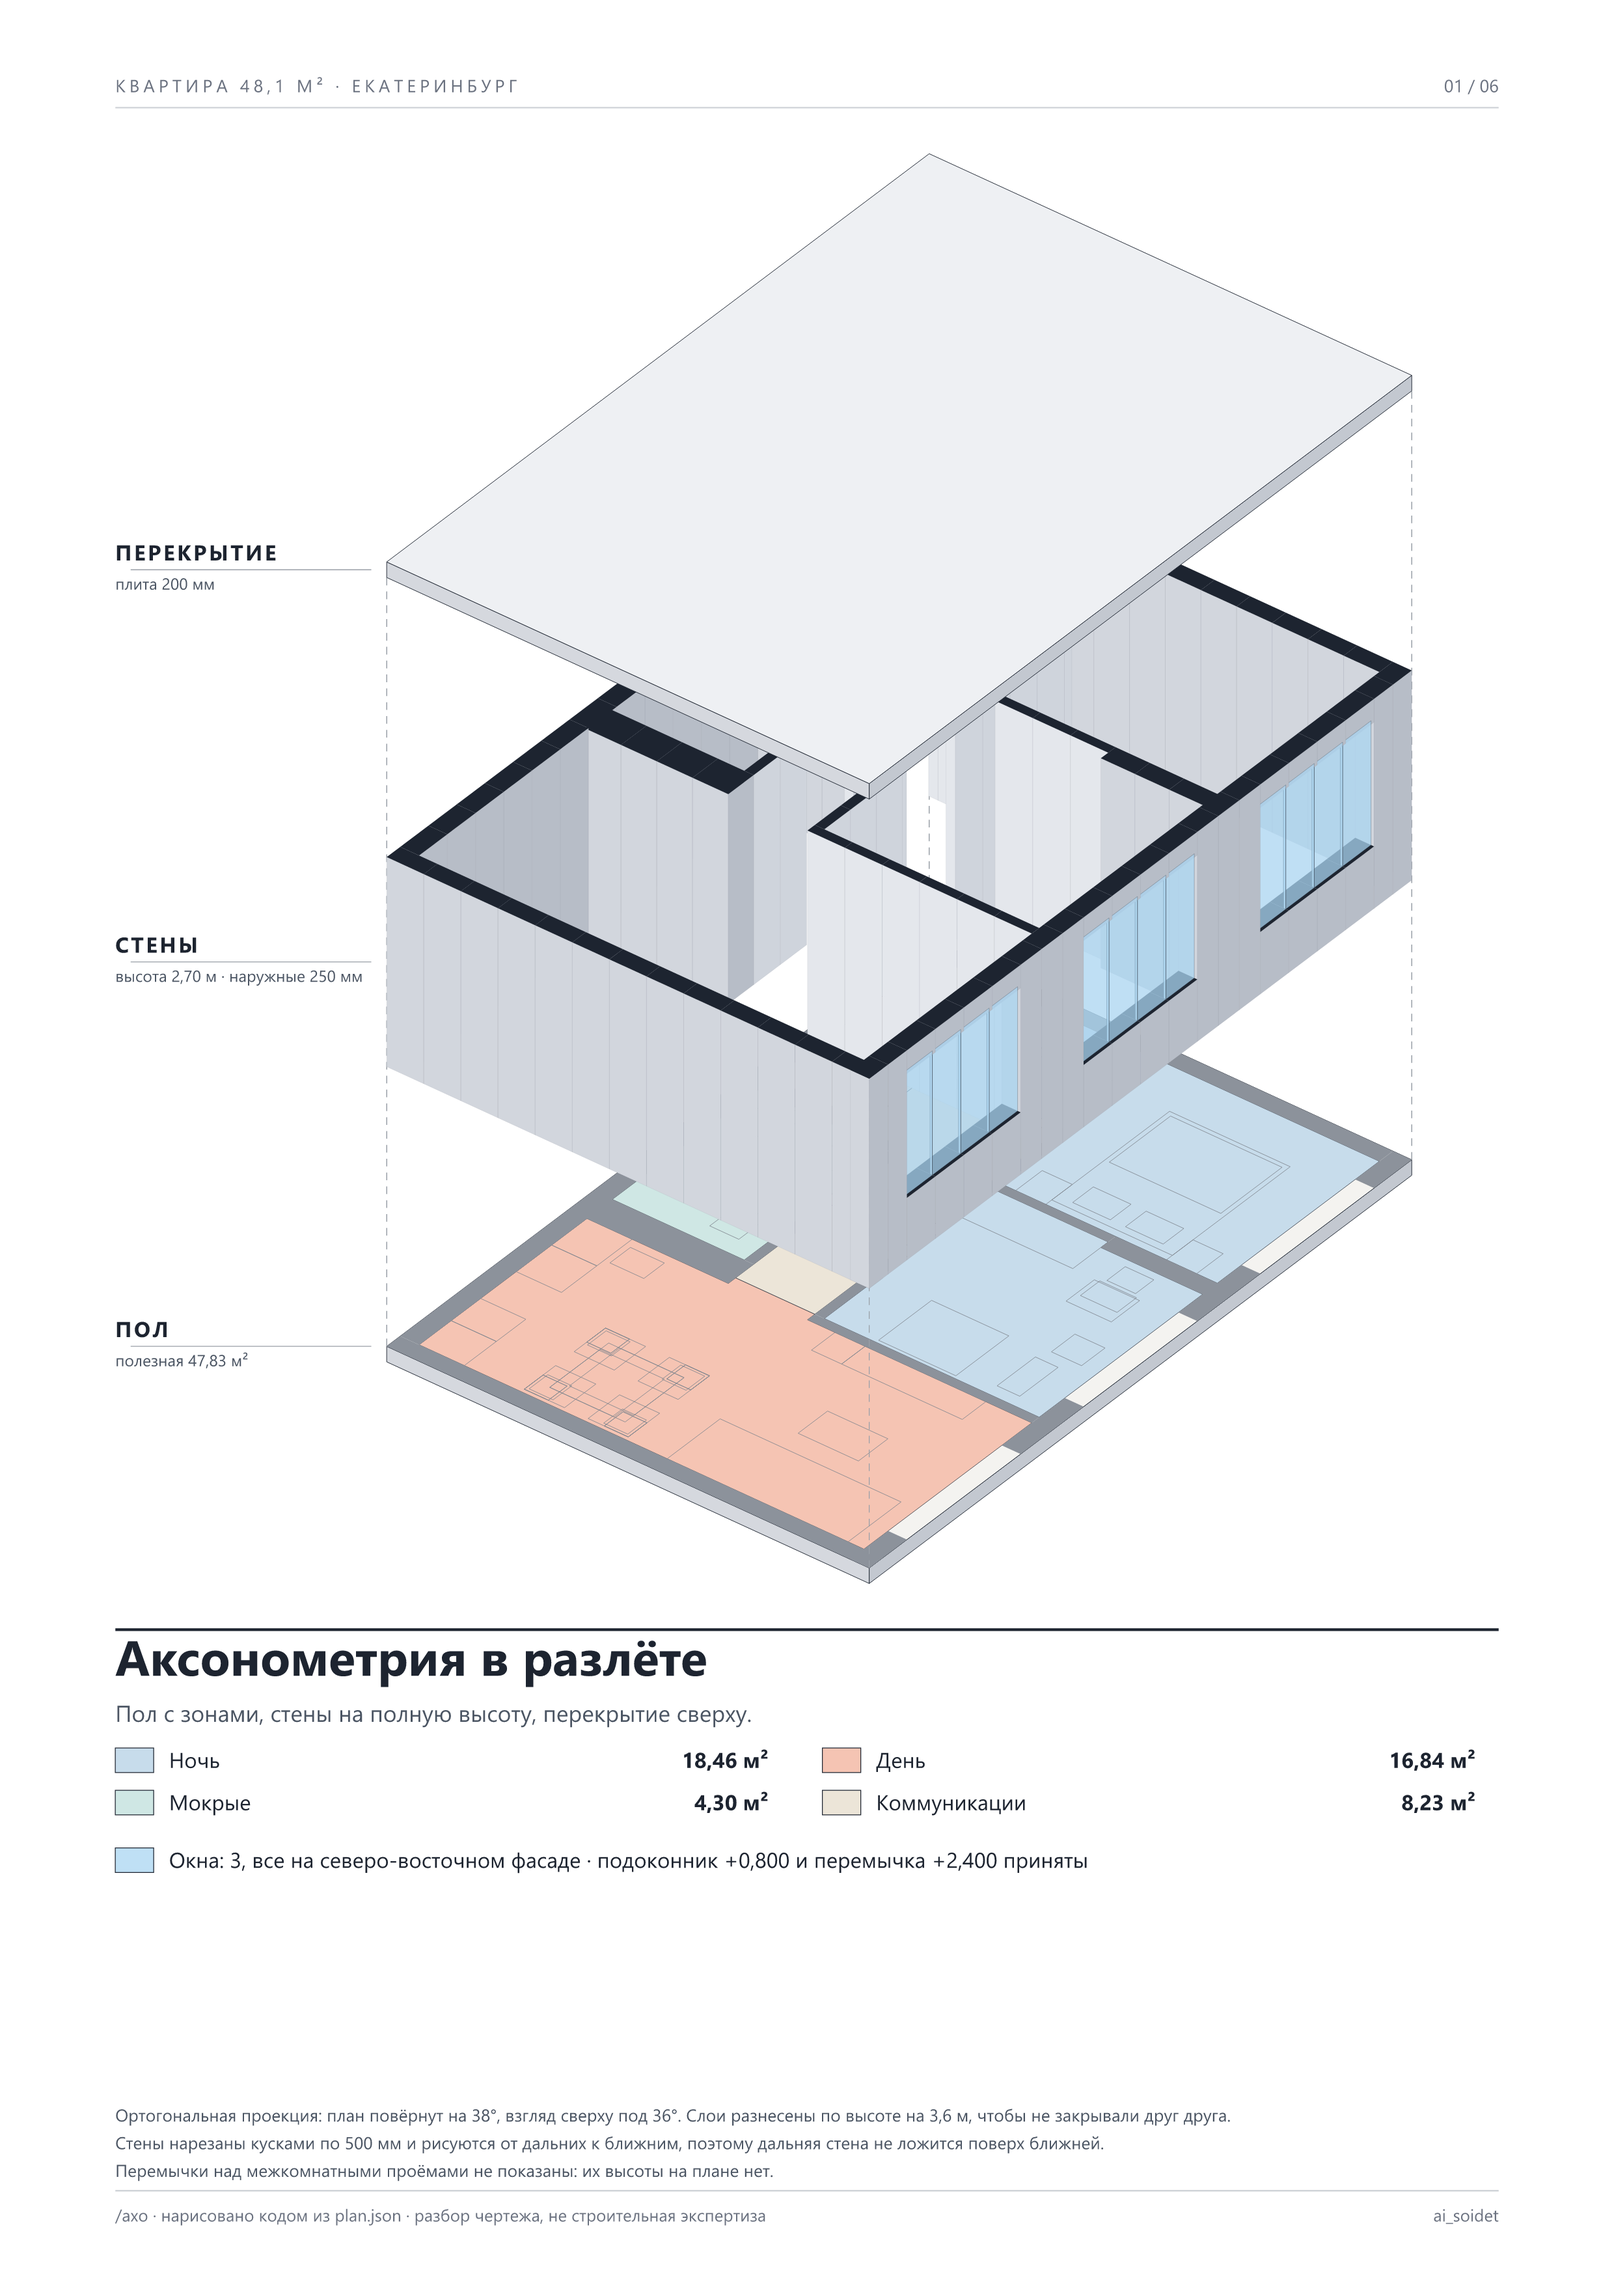
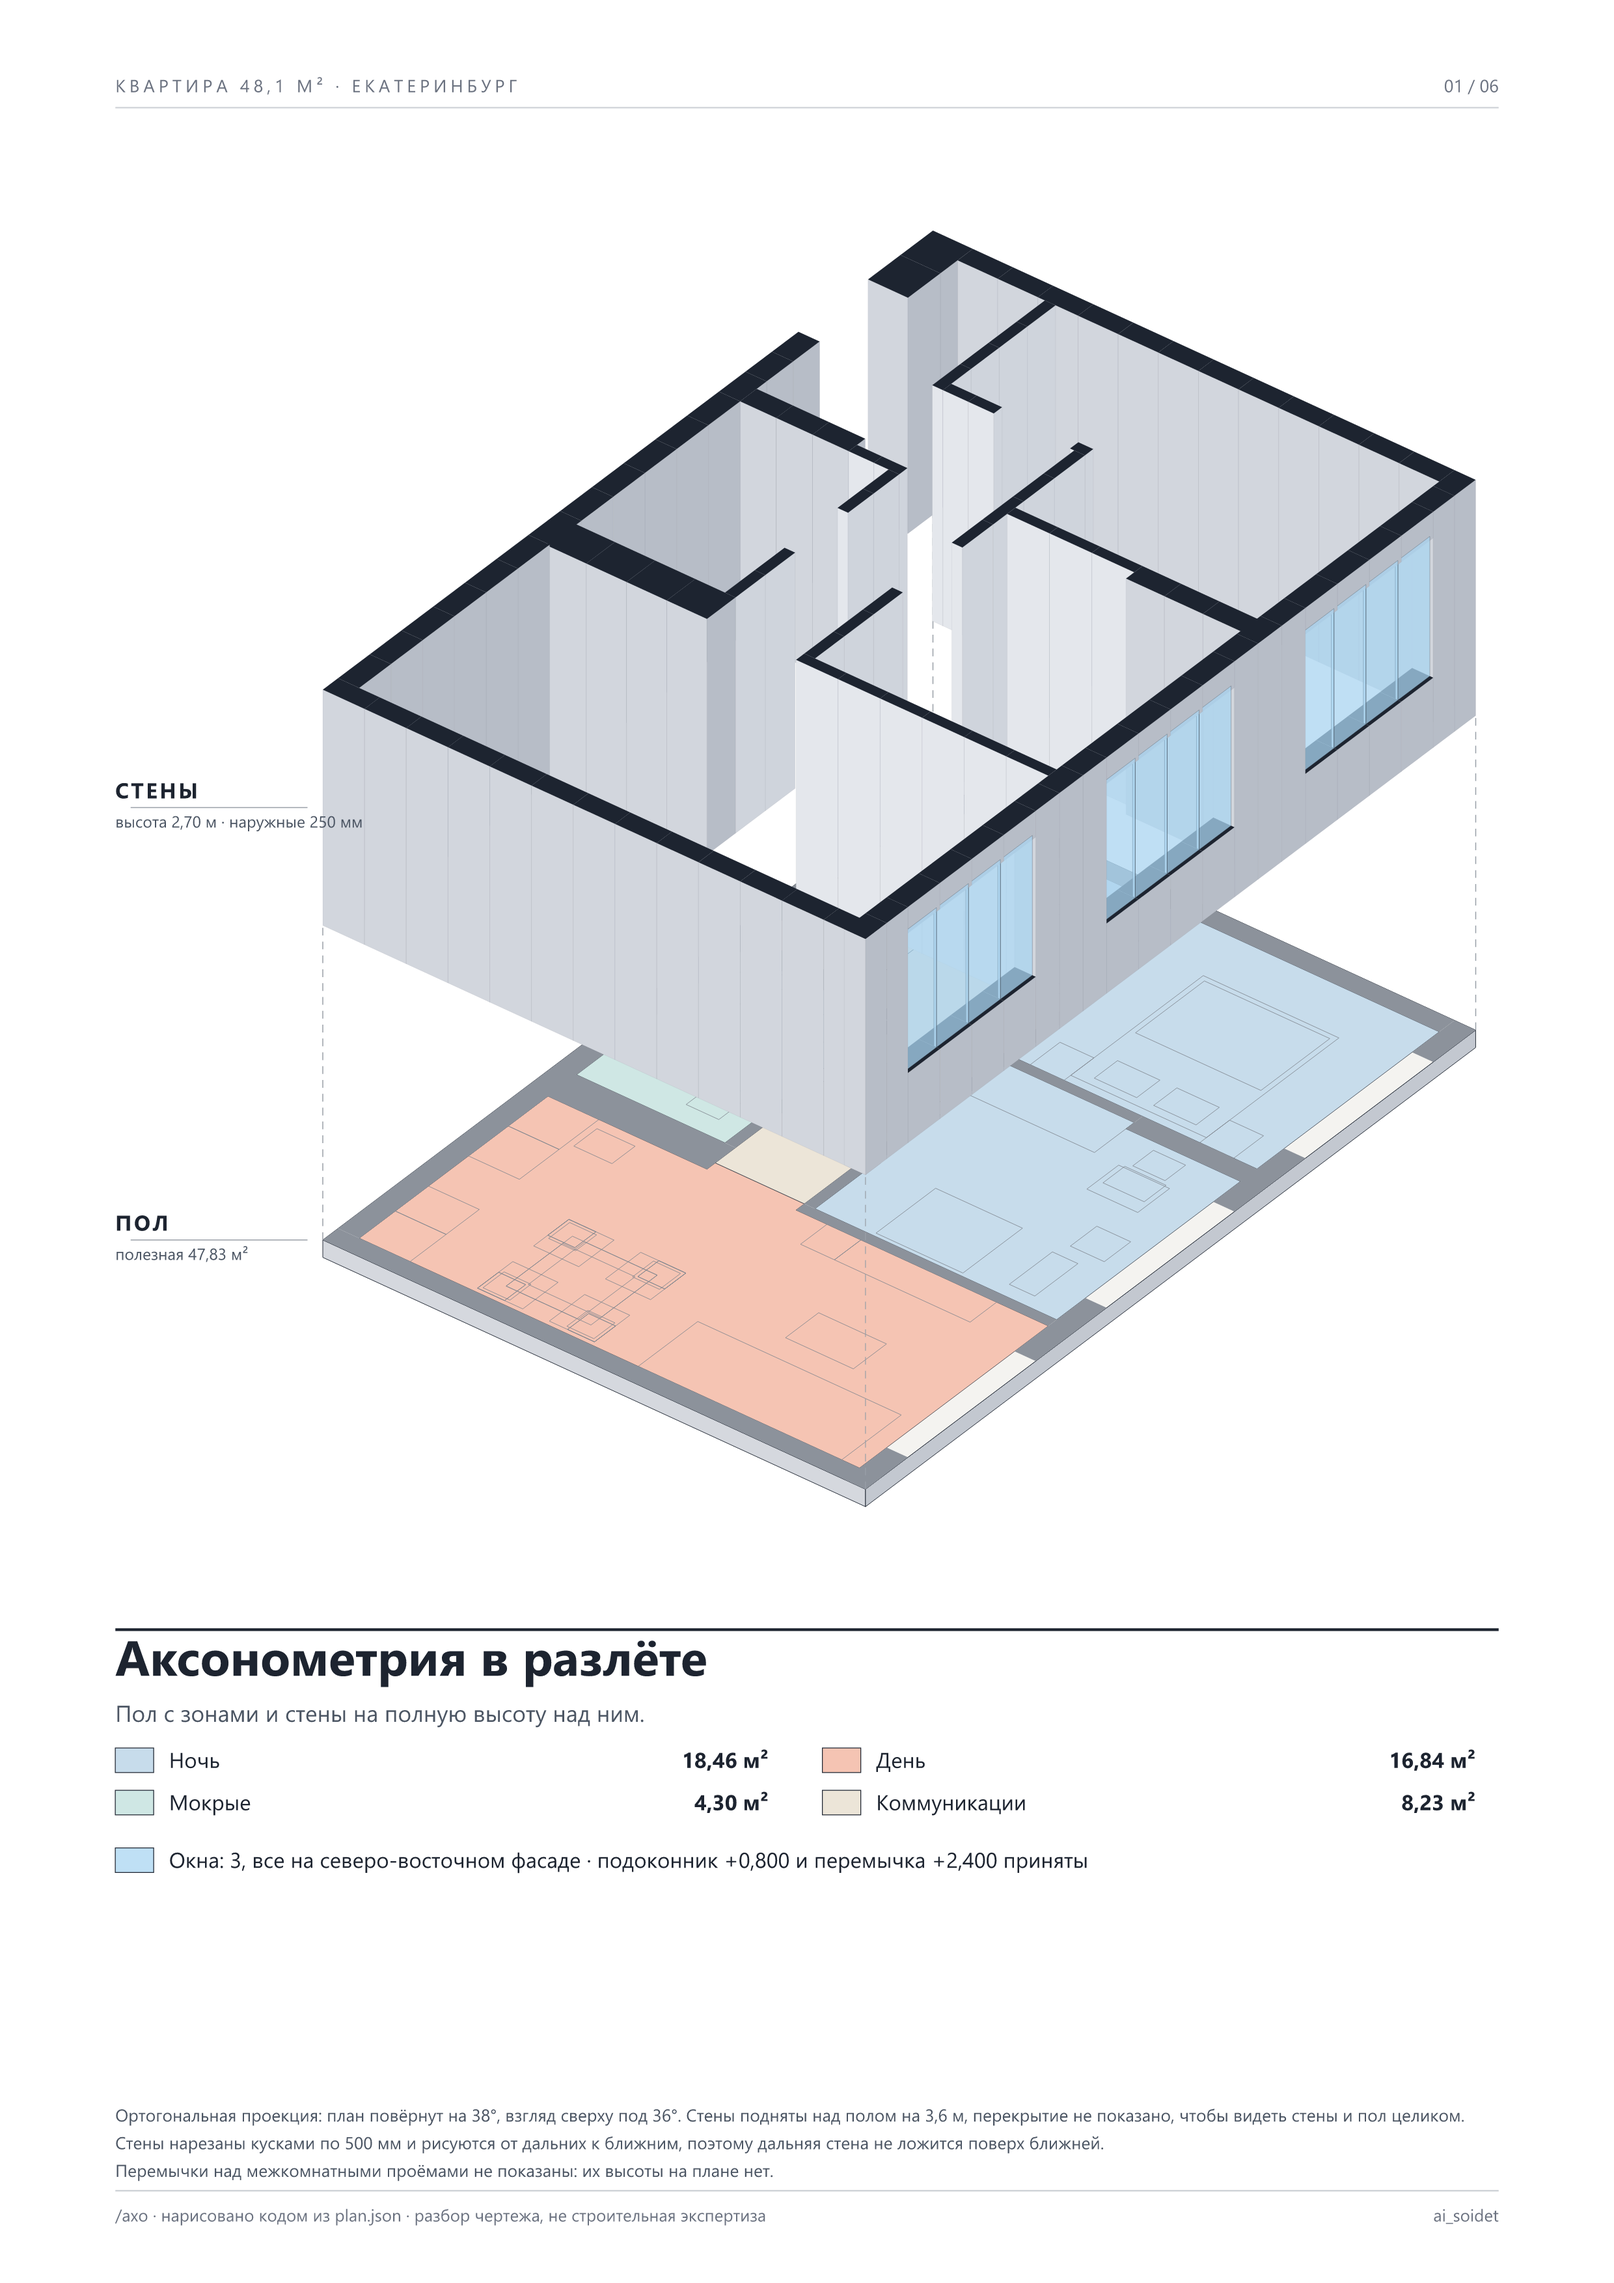
Аксонометрия без перекрытия, кадр карточек по геометрии, инструкция по установке
- /axo: перекрытие убрано, чертёж по центру листа
- карточки: кадр считается по реальной геометрии, сборка падает, если чертёж выходит за кадр
- УСТАНОВКА.md: шаги от архива до своего плана

diff --git a/.claude/commands/axo.md b/.claude/commands/axo.md
@@ -1,12 +1,12 @@
 ---
-description: Аксонометрия «в разлёте»: пол с зонами, стены приподняты, перекрытие парит сверху
+description: Аксонометрия «в разлёте»: пол с зонами и стены, приподнятые над ним
 ---
 Нарисуй аксонометрию квартиры из plan.json «в разлёте» (по CLAUDE.md). Пилоны и колонны входят в слой стен.
 - Вид ортогональный, сверху-сбоку, под 30° к горизонту, повёрнут на 30°, чтобы были видны две наружные стены с окнами.
-- Три слоя, разнесённые по высоте так, чтобы ни один не закрывал нижний:
+- Два слоя, разнесённые по высоте так, чтобы стены не закрывали пол:
   1. Плита пола: каждое помещение залито цветом своей зоны (ночь / день / мокрые / коммуникации), мебель контуром.
-  2. Стены на полную высоту: наружные и перегородки объёмами, верх чёрный, проёмы вырезаны (подоконник и перемычка остаются), стекло голубым.
-  3. Плита перекрытия с реальной толщиной.
+  2. Стены на полную высоту: наружные, перегородки и пилоны объёмами, верх чёрный, проёмы вырезаны (подоконник и перемычка остаются), стекло голубым.
+- Перекрытие не рисовать: оно закрывает стены и ничего не показывает.
 - Порядок отрисовки стен правильный: дальняя стена не рисуется поверх ближней.
-- Пунктирные направляющие по наружным углам слоёв. Слева подписи ПЕРЕКРЫТИЕ / СТЕНЫ / ПОЛ с толщинами, высотой и полезной площадью.
+- Пунктирные направляющие по наружным углам слоёв. Слева подписи СТЕНЫ / ПОЛ с высотой, толщиной и полезной площадью.
 - Легенда: четыре зоны с суммарными м². Сохрани как out/01-axo.

diff --git a/УСТАНОВКА.md b/УСТАНОВКА.md
@@ -1,0 +1,23 @@
+# Установка и первый запуск
+
+Нужны: [Claude Code](https://claude.com/claude-code), Node.js 20 или новее, Chrome (для планшета и карточек).
+
+1. Распакуй архив или склонируй репозиторий:
+   ```bash
+   git clone https://github.com/AIsoidet/claude-plan-check
+   cd claude-plan-check
+   ```
+2. Поставь зависимости, это около минуты:
+   ```bash
+   npm install
+   ```
+3. Проверь, что пример собирается: `npm run all`. Листы появятся в `out/`.
+4. Свой план: положи файл в `src/` (лучше векторный SVG или PDF с сайта ЖК, картинка тоже подойдёт, но точность ниже) и удали `plan.json`.
+5. Открой папку в Claude Code (`claude` в терминале) и набери `/zones`. Claude прочитает план, спросит город, где север и высоту потолка, посчитает масштаб по площадям и сверит площади с подписями. Если что-то не сходится, он остановится и скажет, где.
+6. Дальше по очереди: `/fit`, `/flow`, `/sun`, `/bubble`, `/axo`, `/board`. Всё складывается в `out/`.
+
+Команды лежат в `.claude/commands/`, правила в `CLAUDE.md`. Их можно скопировать в любой свой проект и править: пороги, цвета, набор листов.
+
+Это разбор чертежа, строительную экспертизу он не заменяет. Нормы и практика подписаны на листах.
+
+Вопросы и разборы: [t.me/ai_soidet](https://t.me/ai_soidet)

diff --git a/README.md b/README.md
@@ -12,7 +12,7 @@ Claude Code разбирает план квартиры из ЖК: рисует
 
 | Команда | Лист | Что показывает |
 |---|---|---|
-| `/axo` | `out/01-axo.png` | аксонометрия в разлёте: пол с зонами, стены с окнами, перекрытие |
+| `/axo` | `out/01-axo.png` | аксонометрия в разлёте: пол с зонами и стены с окнами над ним |
 | `/fit` | `out/02-fit.png` | кровать, кухня и шкафы с плана, проходы рядом, самое узкое место |
 | `/flow` | `out/03-flow.png` | три бытовых маршрута через двери (A*), длина и самое узкое место |
 | `/zones` | `out/04-zones.png` | зоны, площади по контуру против подписей, нормы СП 54 п. 5.11 |
@@ -58,6 +58,8 @@ npm install
 ```bash
 npm run all
 ```
+
+Подробно по шагам: [УСТАНОВКА.md](УСТАНОВКА.md).
 
 Свой план: положи файл в `src/` (лучше векторный SVG или PDF с сайта ЖК), удали `plan.json`, открой папку в Claude Code и набери `/zones`. Claude прочитает план, запишет `plan.json`, сверит площади и остановится, если что-то не сходится. Город, север и высоту потолка он спросит.
 
